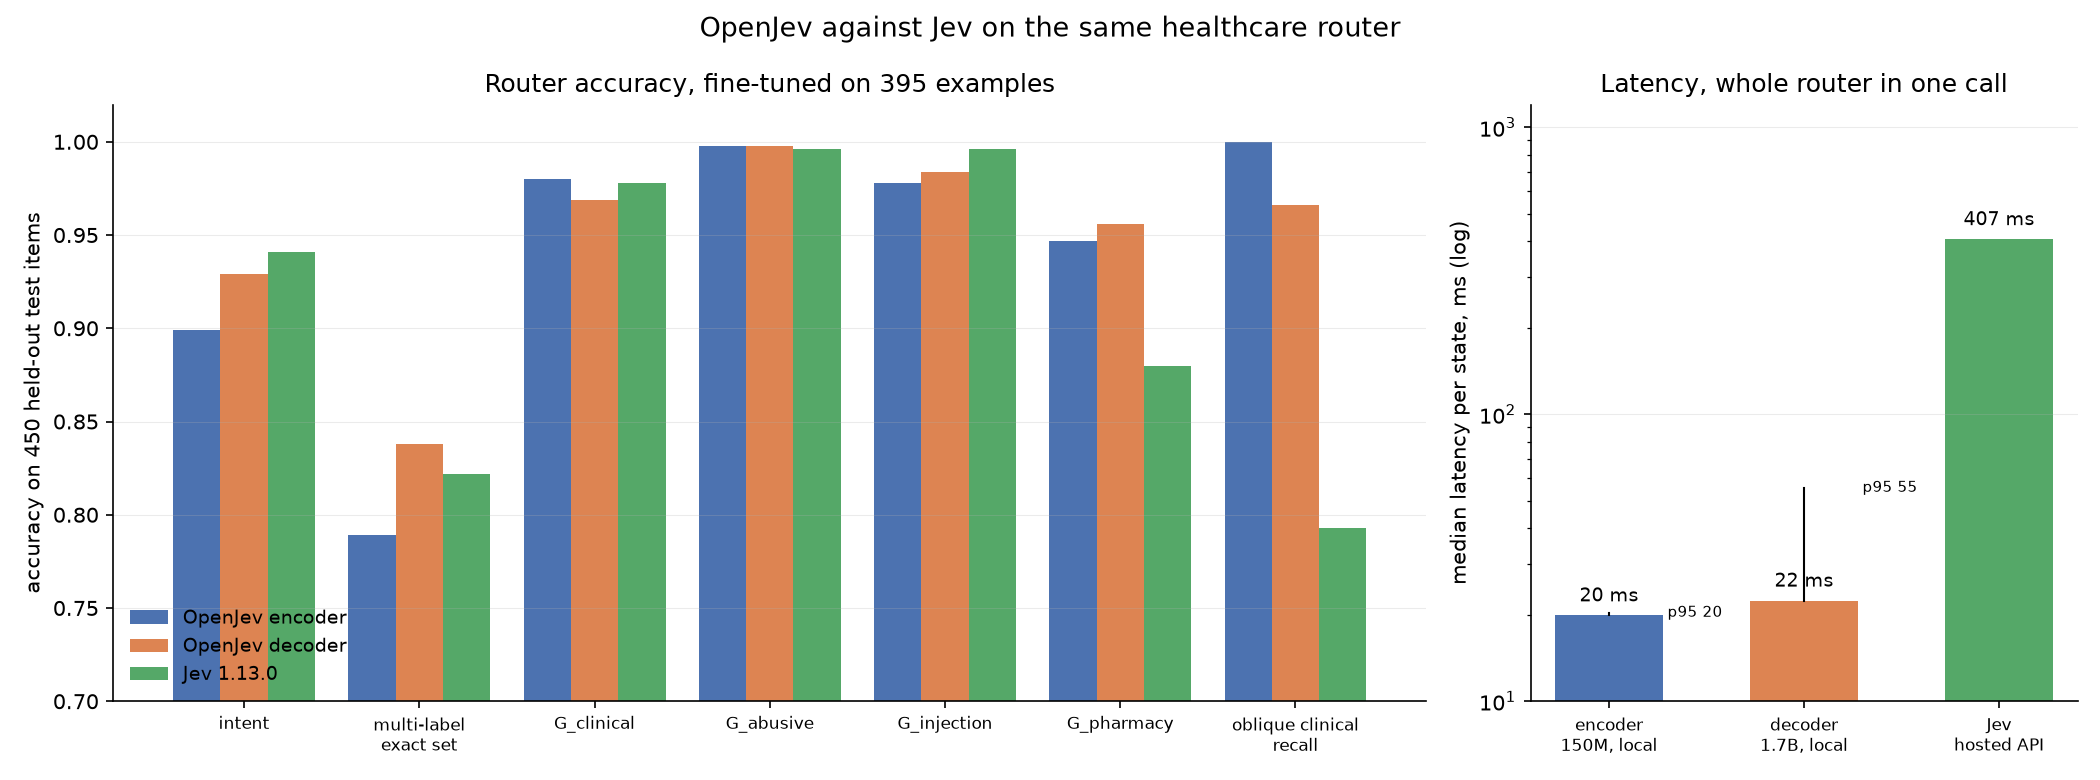
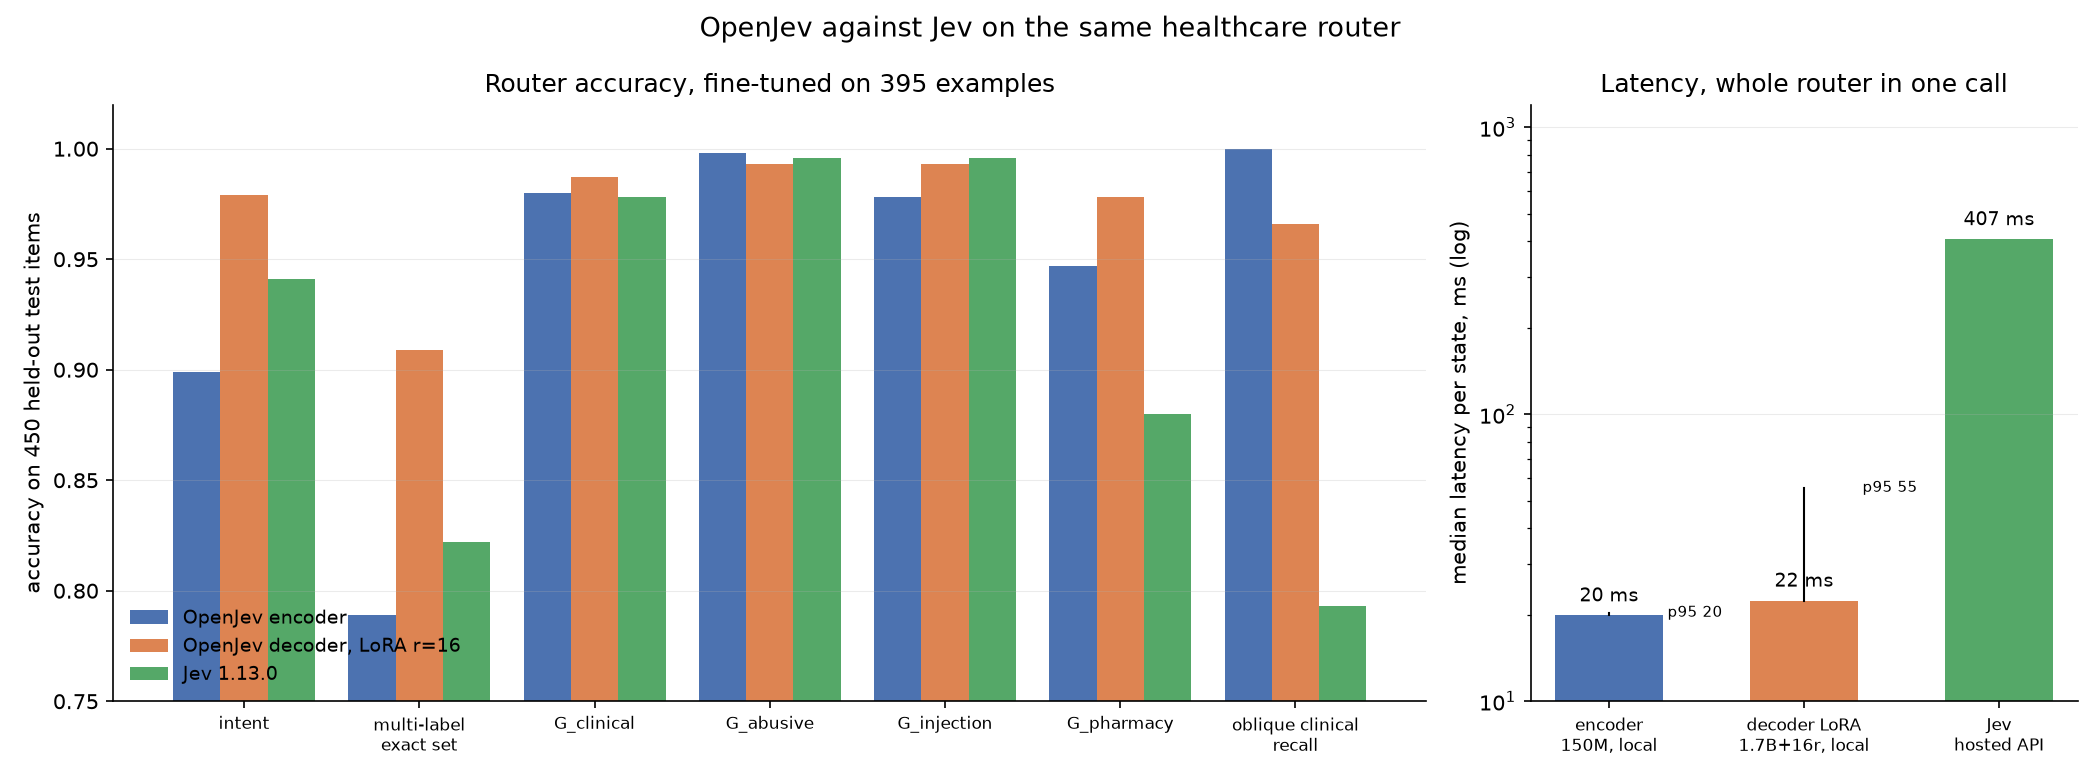
LoRA beats Jev on the router, and beats full fine-tuning too
Rank-16 adapters on Qwen3-1.7B, 395 examples, 258 seconds. Paired on the
same 450 items with exact McNemar: intent 0.979 against 0.941 (p=9.8e-04),
multi-label exact set 0.909 against 0.822 (p=7.2e-06), G_pharmacy 0.978
against 0.880 (p=3.9e-10), level on the other four. Three wins, four
ties, no losses.

The interesting part is that the smallest configuration that works is
also the best:

  encoder, everything open   0.899   150M trainable    0.6GB
  decoder, head only         0.666   4.2M             17MB
  decoder, everything open   0.929   1,725M            3.4GB
  decoder, LoRA r=16         0.979   17M              87MB

Adapting 17M parameters beats opening 1,725M, at a 39th of the artifact.
The likely reason is the learning rate a full fine-tune tolerates: 1e-5
over six epochs of 395 examples barely moves a 1.7B model, while LoRA at
2e-4 adapts fast without disturbing the weights it rides on. Neither was
tuned past one setting, so this is 'adapters are the right default here',
not a tuned optimum.

It also makes the deployment story work. 87MB per use case means one
backbone serves many routers; 3.4GB per use case means it does not.

Wires LoRA through the trainer, both evaluators and the inference path,
and teaches the checkpoint format to store adapters rather than a copy of
the backbone. freeze_backbone now keeps lora_ parameters trainable, since
freezing them would train nothing while still looking like a normal run.

diff --git a/openjev/decoder.py b/openjev/decoder.py
@@ -43,6 +43,9 @@ class OpenJevDecoder(nn.Module):
         no_token: str = " no",
         dtype: torch.dtype = torch.bfloat16,
         learned_head: bool = False,
+        lora_r: int = 0,
+        lora_alpha: int = 32,
+        lora_dropout: float = 0.05,
     ):
         super().__init__()
         if tokenizer is None:
@@ -51,8 +54,31 @@ class OpenJevDecoder(nn.Module):
         self.lm = AutoModelForCausalLM.from_pretrained(
             backbone, config=cfg, dtype=dtype, attn_implementation="sdpa"
         )
+        # LoRA sits between the two extremes we measured on the router: a
+        # 4.2M head on a frozen backbone reaches intent 0.666, and opening
+        # all 1.7B reaches 0.929 but writes a 3.4GB artifact per use case.
+        # Adapters keep most of the capacity at a fraction of the size, which
+        # is what makes "one backbone, many tasks" possible.
+        self.lora_r = lora_r
+        if lora_r:
+            from peft import LoraConfig, get_peft_model
+
+            self.lm = get_peft_model(
+                self.lm,
+                LoraConfig(
+                    r=lora_r, lora_alpha=lora_alpha, lora_dropout=lora_dropout,
+                    bias="none", task_type="CAUSAL_LM",
+                    # Attention and MLP projections both matter here: the
+                    # readout is a single position, so the model has to route
+                    # option content into it rather than just re-weight it.
+                    target_modules=["q_proj", "k_proj", "v_proj", "o_proj",
+                                    "gate_proj", "up_proj", "down_proj"],
+                ),
+            )
+
         self.yes_id = _one_token(tokenizer, yes_token)
         self.no_id = _one_token(tokenizer, no_token)
+        self._base = self.lm.get_base_model() if lora_r else self.lm
 
         # A small head trained on top of the frozen backbone's hidden state.
         #
@@ -107,8 +133,11 @@ class OpenJevDecoder(nn.Module):
 
     def freeze_backbone(self) -> int:
         """Freeze everything but the head. Returns the trainable count."""
-        for p in self.lm.parameters():
-            p.requires_grad_(False)
+        for n, p in self.lm.named_parameters():
+            # Adapters are the trainable part, so freezing "the backbone"
+            # must leave them alone or LoRA silently trains nothing and the
+            # run looks like an untrained readout.
+            p.requires_grad_("lora_" in n)
         if self.scorer is not None:
             for p in self.scorer.parameters():
                 p.requires_grad_(True)
@@ -117,9 +146,9 @@ class OpenJevDecoder(nn.Module):
     def _mask_mapping(self, ids, attn, blocks):
         from transformers.masking_utils import create_causal_mask
 
-        probe = torch.empty((*ids.shape, 1), dtype=self.lm.dtype, device=ids.device)
+        probe = torch.empty((*ids.shape, 1), dtype=self._base.dtype, device=ids.device)
         return create_causal_mask(
-            config=self.lm.config,
+            config=self._base.config,
             input_embeds=probe,
             attention_mask=attn,
             cache_position=torch.arange(ids.shape[1], device=ids.device),
@@ -135,18 +164,18 @@ class OpenJevDecoder(nn.Module):
 
         try:
             mask = self._mask_mapping(ids, attn, blocks)
-            out = self.lm.model(input_ids=ids, attention_mask=mask)
+            out = self._base.model(input_ids=ids, attention_mask=mask)
         except Exception:
             # Fall back to the plain causal mask. Question blocks then see
             # each other, which is wrong but still runs; the isolation test
             # will catch it rather than it passing silently.
-            out = self.lm.model(input_ids=ids, attention_mask=attn)
+            out = self._base.model(input_ids=ids, attention_mask=attn)
 
         h = out.last_hidden_state
         flat = h.reshape(-1, h.shape[-1])
         markers = flat.index_select(0, batch["marker_flat"])
 
-        vocab = self.lm.lm_head(markers)
+        vocab = self._base.lm_head(markers)
         logits = (vocab[:, self.yes_id] - vocab[:, self.no_id]).float()
         if self.scorer is not None:
             # Residual: zero at initialisation, so this starts as the exact

diff --git a/scripts/plot_comparison.py b/scripts/plot_comparison.py
@@ -16,14 +16,14 @@ from pathlib import Path
 # Paired significance from scripts/compare_to_jev.py (exact McNemar).
 # Jev is jev-1.13.0, measured 20 September 2026.
 METRICS = [
-    #  label,                     encoder, decoder,   jev
-    ("intent",                      0.899,   0.929, 0.941),
-    ("multi-label\nexact set",      0.789,   0.838, 0.822),
-    ("G_clinical",                  0.980,   0.969, 0.978),
-    ("G_abusive",                   0.998,   0.998, 0.996),
-    ("G_injection",                 0.978,   0.984, 0.996),
-    ("G_pharmacy",                  0.947,   0.956, 0.880),
-    ("oblique clinical\nrecall",    1.000,   0.966, 0.793),
+    #  label,                     encoder, decoder LoRA,  jev
+    ("intent",                      0.899,        0.979, 0.941),
+    ("multi-label\nexact set",      0.789,        0.909, 0.822),
+    ("G_clinical",                  0.980,        0.987, 0.978),
+    ("G_abusive",                   0.998,        0.993, 0.996),
+    ("G_injection",                 0.978,        0.993, 0.996),
+    ("G_pharmacy",                  0.947,        0.978, 0.880),
+    ("oblique clinical\nrecall",    1.000,        0.966, 0.793),
 ]
 
 # Latency per state with the full router asked in one call.
@@ -40,7 +40,7 @@ METRICS = [
 # speed of their model.
 LATENCY = [
     ("encoder\n150M, local",  19.9, 20.3),
-    ("decoder\n1.7B, local",  22.4, 55.3),
+    ("decoder LoRA\n1.7B+16r, local",  22.4, 55.3),
     ("Jev\nhosted API",      407.0, None),
 ]
 
@@ -68,11 +68,11 @@ def main() -> None:
     xs = range(len(METRICS))
     w = 0.27
     for off, idx, colour, name in ((-w, 1, enc, "OpenJev encoder"),
-                                   (0.0, 2, dec, "OpenJev decoder"),
+                                   (0.0, 2, dec, "OpenJev decoder, LoRA r=16"),
                                    (w, 3, jev, "Jev 1.13.0")):
         ax1.bar([x + off for x in xs], [m[idx] for m in METRICS],
                 width=w, color=colour, label=name)
-    ax1.set_ylim(0.70, 1.02)
+    ax1.set_ylim(0.75, 1.02)
     ax1.set_ylabel("accuracy on 450 held-out test items")
     ax1.set_xticks(list(xs))
     ax1.set_xticklabels(labels, fontsize=8)

diff --git a/scripts/train.py b/scripts/train.py
@@ -145,6 +145,8 @@ def main() -> None:
                     help="probability of recasting a choice question as a yes/no one")
     ap.add_argument("--decoder", action="store_true",
                     help="causal LM backbone with yes/no readout")
+    ap.add_argument("--lora-r", type=int, default=0,
+                    help="LoRA rank on the decoder backbone; 0 disables it")
     ap.add_argument("--freeze-backbone", action="store_true",
                     help="train only the calibration head (use with --decoder)")
     ap.add_argument("--preamble", default=None)
@@ -257,6 +259,7 @@ def main() -> None:
 
         model = OpenJevDecoder(
             backbone=args.backbone, tokenizer=tok, learned_head=True,
+            lora_r=args.lora_r,
             dtype=torch.bfloat16 if device == "cuda" else torch.float32,
         ).to(device)
         if args.freeze_backbone:
@@ -365,7 +368,10 @@ def main() -> None:
         out_dir / "model.pt", model,
         backbone=args.backbone,
         decoder=bool(args.decoder),
-        head_only=bool(args.decoder and args.freeze_backbone),
+        # LoRA and head-only both train a small part of a frozen backbone,
+        # so both should write the adapter rather than a 3.4GB copy of Qwen.
+        head_only=bool(args.decoder and (args.freeze_backbone or args.lora_r)),
+        lora_r=int(args.lora_r),
         overwrite=args.overwrite,
         # The prompt format is part of the model: the same weights scored with
         # a different preamble are a different system. Store it so evaluation

diff --git a/openjev/ckpt.py b/openjev/ckpt.py
@@ -26,8 +26,13 @@ import torch
 HEAD_PREFIXES = ("scorer.",)
 
 
+def is_trainable_part(key: str) -> bool:
+    """Whether a parameter belongs to the adapter rather than the backbone."""
+    return key.startswith(HEAD_PREFIXES) or "lora_" in key
+
+
 def head_only_state(state: dict[str, Any]) -> dict[str, Any]:
-    return {k: v for k, v in state.items() if k.startswith(HEAD_PREFIXES)}
+    return {k: v for k, v in state.items() if is_trainable_part(k)}
 
 
 def save(
@@ -85,7 +90,7 @@ def load_into(model, ck: dict[str, Any]) -> None:
         return
     missing, unexpected = model.load_state_dict(state, strict=False)
     if ck.get("head_only"):
-        missing = [k for k in missing if k.startswith(HEAD_PREFIXES)]
+        missing = [k for k in missing if is_trainable_part(k)]
     if missing or unexpected:
         raise SystemExit(
             f"state_dict mismatch: {len(missing)} missing, {len(unexpected)} "
@@ -101,3 +106,14 @@ def wants_head(ck: dict[str, Any]) -> bool:
     if "learned_head" in ck:
         return bool(ck["learned_head"])
     return any(k.startswith(HEAD_PREFIXES) for k in (ck.get("state_dict") or {}))
+
+
+def lora_rank(ck: dict[str, Any]) -> int:
+    """The adapter rank a checkpoint needs, or 0. Rebuilding the model
+    without it would drop every adapter tensor on load."""
+    if ck.get("lora_r"):
+        return int(ck["lora_r"])
+    for k, v in (ck.get("state_dict") or {}).items():
+        if "lora_A" in k and hasattr(v, "shape"):
+            return int(v.shape[0])
+    return 0

diff --git a/scripts/eval_heldout.py b/scripts/eval_heldout.py
@@ -28,7 +28,7 @@ sys.path.insert(0, str(Path(__file__).resolve().parents[1]))
 from openjev import Task  # noqa: E402
 from openjev.data import TaskDataset, collate  # noqa: E402
 from openjev.encode import Packer  # noqa: E402
-from openjev.ckpt import load_into, wants_head  # noqa: E402
+from openjev.ckpt import load_into, lora_rank, wants_head  # noqa: E402
 from openjev.heldout import load_suite  # noqa: E402
 from openjev.metrics import accuracy, auroc, bootstrap_ci, macro_f1  # noqa: E402
 from openjev.model import OpenJev  # noqa: E402
@@ -112,7 +112,7 @@ def main() -> None:
         # floor — strict=False reports them as "unexpected" and evaluates the
         # untrained readout instead. Infer the head from the weights present.
         model = OpenJevDecoder(
-            backbone=backbone, tokenizer=tok, learned_head=wants_head(ck),
+            backbone=backbone, tokenizer=tok, learned_head=wants_head(ck), lora_r=lora_rank(ck),
         ).to(device)
     else:
         model = OpenJev(backbone=backbone, vocab_size=len(tok)).to(device)

diff --git a/scripts/eval_router.py b/scripts/eval_router.py
@@ -25,7 +25,7 @@ sys.path.insert(0, str(Path(__file__).resolve().parents[1]))
 from openjev import Task  # noqa: E402
 from openjev.data import TaskDataset, collate  # noqa: E402
 from openjev.encode import Packer  # noqa: E402
-from openjev.ckpt import load_into, wants_head  # noqa: E402
+from openjev.ckpt import load_into, lora_rank, wants_head  # noqa: E402
 from openjev.metrics import bootstrap_ci, multilabel  # noqa: E402
 from openjev.model import OpenJev  # noqa: E402
 
@@ -124,7 +124,7 @@ def main() -> None:
         from openjev.decoder import OpenJevDecoder
 
         model = OpenJevDecoder(
-            backbone=backbone, tokenizer=tok, learned_head=wants_head(ck),
+            backbone=backbone, tokenizer=tok, learned_head=wants_head(ck), lora_r=lora_rank(ck),
         ).to(device)
     else:
         model = OpenJev(backbone=backbone, vocab_size=len(tok)).to(device)

diff --git a/openjev/infer.py b/openjev/infer.py
@@ -20,7 +20,7 @@ from typing import Any
 
 import torch
 
-from .ckpt import load_into, wants_head
+from .ckpt import load_into, lora_rank, wants_head
 from .encode import Packer
 from .schema import Answer, Question
 
@@ -72,6 +72,7 @@ class DecisionModel:
 
             model = OpenJevDecoder(
                 backbone=backbone, tokenizer=tok, learned_head=wants_head(ck),
+                lora_r=lora_rank(ck),
             ).to(device)
         else:
             from .model import OpenJev

diff --git a/docs/results.md b/docs/results.md
@@ -19,9 +19,9 @@ intervals over examples; paired comparisons use exact McNemar.
 | CLINC-150 (K=151), never seen it | 0.518 | not measured | 78x chance |
 | Held-out suite, 5 of 7 tasks | 17.6x chance | not measured | `score` still at chance |
 | Held-out binary, ranking | AUROC 0.714 | not measured | transfers; miscalibrated |
-| Router intent, decoder | 0.929 | 0.941 | **level**, p = 0.54 |
-| Router multi-label exact set, decoder | **0.838** | 0.822 | level, p = 0.52 |
-| Router intent, encoder | 0.899 | **0.941** | Jev, p = 0.04 |
+| Router intent, LoRA | **0.979** | 0.941 | **OpenJev**, p = 1e-03 |
+| Router multi-label exact set, LoRA | **0.909** | 0.822 | **OpenJev**, p = 7e-06 |
+| `G_pharmacy`, LoRA | **0.978** | 0.880 | **OpenJev**, p = 4e-10 |
 | Oblique-clinical recall | **1.000** | 0.793 | **OpenJev**, p = 0.03 |
 | `G_pharmacy` correctness | **0.947** | 0.880 | **OpenJev**, p = 3e-04 |
 | `G_clinical` correctness | 0.980 | 0.978 | level, p = 1.00 |
@@ -261,7 +261,44 @@ floor, so the accuracy gain is not significant; only the collapse is fixed.
 `helpsteer` doubles, 0.110 to 0.222, but lands exactly on its 0.233
 majority-class baseline, which is not skill either.
 
-## 8. Fine-tuned on the decoder, OpenJev draws level with Jev
+## 8. With LoRA, OpenJev beats Jev on the router
+
+Rank-16 adapters on Qwen3-1.7B, 395 training examples, 258 seconds. Paired
+on the same 450 items, exact McNemar.
+
+| | OpenJev | Jev | b10 | b01 | p | winner |
+|---|---|---|---|---|---|---|
+| intent | **0.979** | 0.941 | 14 | 1 | 9.8e-04 | **OpenJev** |
+| multi-label exact set | **0.909** | 0.822 | 57 | 18 | 7.2e-06 | **OpenJev** |
+| `G_pharmacy` | **0.978** | 0.880 | 49 | 5 | 3.9e-10 | **OpenJev** |
+| `G_clinical` | 0.987 | 0.978 | 7 | 3 | 0.34 | level |
+| `G_abusive` | 0.993 | 0.996 | 2 | 3 | 1.00 | level |
+| `G_injection` | 0.993 | 0.996 | 1 | 2 | 1.00 | level |
+| `clinical_oblique` recall | 0.966 | 0.793 | 5 | 0 | 0.06 | level |
+
+**Three wins, four ties, no losses.**
+
+What makes this more than a scaling result is that the adapter is the
+*smallest* configuration that works, not the largest:
+
+| | intent | trainable | artifact |
+|---|---|---|---|
+| encoder, everything open | 0.899 | 150M | 0.6 GB |
+| decoder, head only | 0.666 | 4.2M | 17 MB |
+| decoder, everything open | 0.929 | 1,725M | 3.4 GB |
+| **decoder, LoRA r=16** | **0.979** | **17M** | **87 MB** |
+
+Opening all 1.7B parameters is *worse* than adapting 17M of them, and 39x
+the artifact. The likely reason is the learning rate a full fine-tune can
+tolerate: 1e-5 for six epochs over 395 examples barely moves a 1.7B model,
+while LoRA at 2e-4 adapts quickly without disturbing the pretrained weights
+it is riding on. We did not tune either beyond one setting, so read this as
+"adapters are the right default here", not as a tuned optimum.
+
+It also makes the deployment story work. 87 MB per use case means one
+backbone can serve many routers; 3.4 GB per use case means it cannot.
+
+## 9. Fine-tuned end-to-end, the decoder draws level with Jev
 
 Paired on the same 450 items, exact McNemar. The encoder loses intent and
 the injection gate; the decoder loses nothing.
@@ -304,7 +341,7 @@ That was the wrong evidence for the recommendation, because the path this
 project recommends is fine-tuning, and no fine-tuned comparison had been run.
 Latency had never been measured at all.
 
-## 9. Encoder and decoder tie zero-shot and disagree on everything else
+## 10. Encoder and decoder tie zero-shot and disagree on everything else
 
 Both backbones trained on the same `mixture_ord2` with the same
 augmentations, both landing at **17.6x chance**. The average hides the
@@ -333,7 +370,7 @@ than anything the head learned. The encoder, training end to end, actually
 fits its mixture. Neither is wrong, but only the encoder's held-in number
 does the job a control is there to do.
 
-## 10. The contamination guard caught a real leak
+## 11. The contamination guard caught a real leak
 
 `tasksource` contains most common benchmarks, not always under a recognisable
 name. Verified with `scripts/verify_heldout_lineage.py`:

diff --git a/README.md b/README.md
@@ -25,6 +25,12 @@ clinical risk (1.000 against 0.793) and on scope gating, behind on
 single-label intent (0.899 against 0.941). Training takes 38 seconds on one
 GPU and the data never leaves your machine.
 
+With rank-16 LoRA adapters on a 1.7B backbone it goes further and **wins**:
+intent 0.979 against 0.941 (p = 1e-03), multi-label compound routing 0.909
+against 0.822 (p = 7e-06), scope gating 0.978 against 0.880 (p = 4e-10),
+and level on the rest. Three wins, four ties, no losses, from 395 examples,
+258 seconds and an 87 MB adapter.
+
 **It is not a zero-shot replacement.** On a schema it has never seen,
 Banking77, it scores 0.355 against roughly 0.820. That gap is real and this
 README will say so until a measurement says otherwise.
